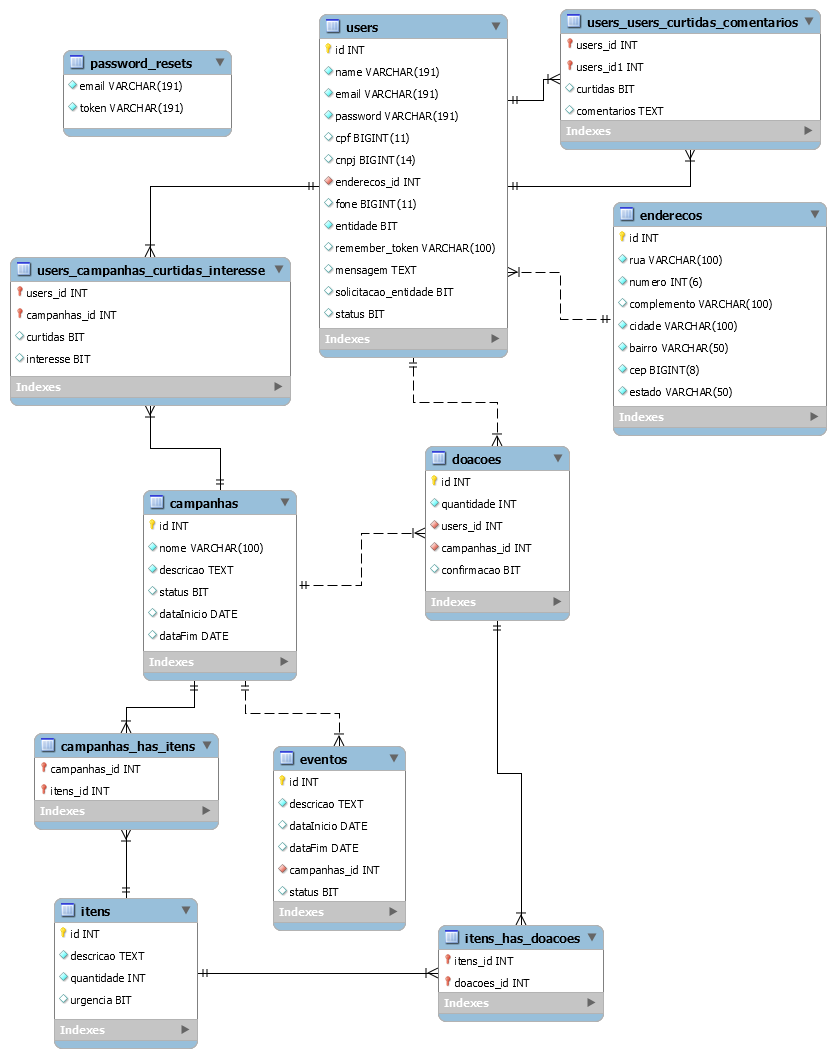
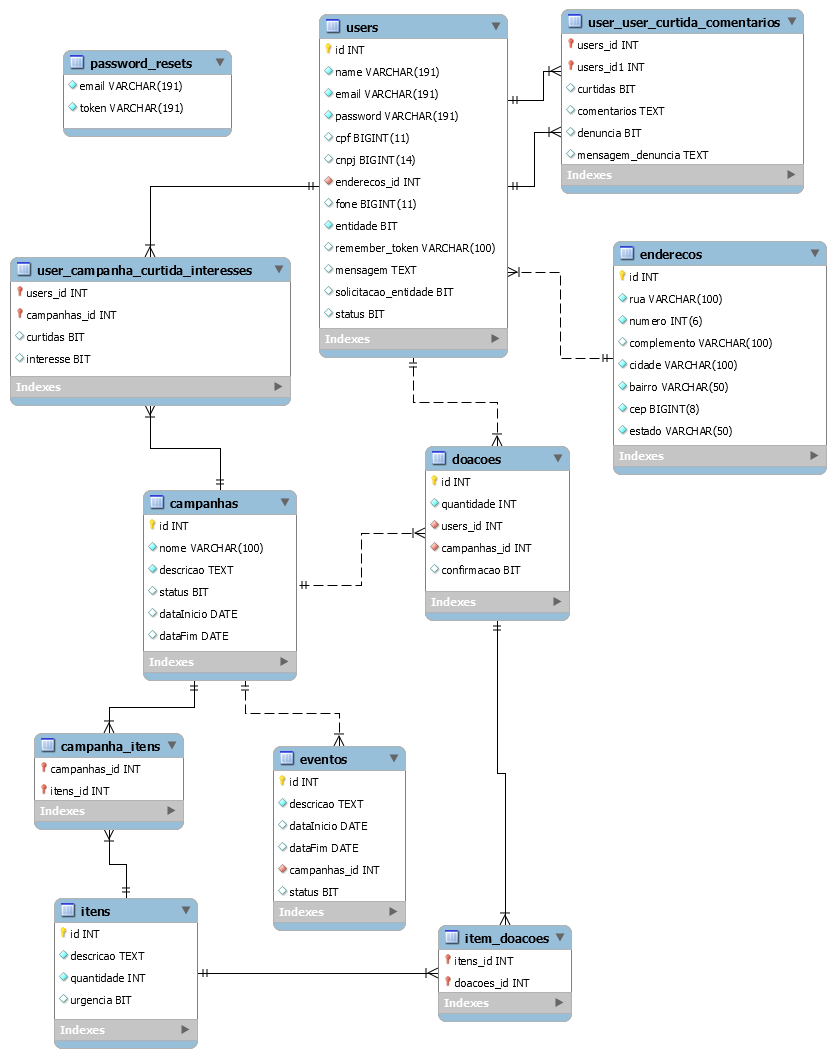
Correcao relacionamentos

diff --git a/database/migrations/2018_04_29_181419_create_campanha_items_table.php b/database/migrations/2018_04_29_181419_create_campanha_items_table.php
@@ -17,11 +17,11 @@ class CreateCampanhaItemsTable extends Migration
             $table->increments('id');
             $table->unsignedInteger('campanhas_id');
             $table->foreign('campanhas_id')
-                ->references('id')->on('campanha')
+                ->references('id')->on('campanhas')
                 ->onDelete('cascade');
             $table->unsignedInteger('itens_id');
             $table->foreign('itens_id')
-                ->references('id')->on('item')
+                ->references('id')->on('items')
                 ->onDelete('cascade');
             $table->timestamps();
         });

diff --git a/database/migrations/2018_04_29_180116_create_item_doacaos_table.php b/database/migrations/2018_04_29_180116_create_item_doacaos_table.php
@@ -17,11 +17,11 @@ class CreateItemDoacaosTable extends Migration
             $table->increments('id');
             $table->unsignedInteger('itens_id');
             $table->foreign('itens_id')
-                ->references('id')->on('item')
+                ->references('id')->on('items')
                 ->onDelete('cascade');
             $table->unsignedInteger('doacoes_id');
             $table->foreign('doacoes_id')
-                ->references('id')->on('doacao')
+                ->references('id')->on('doacaos')
                 ->onDelete('cascade');
             $table->timestamps();
         });
